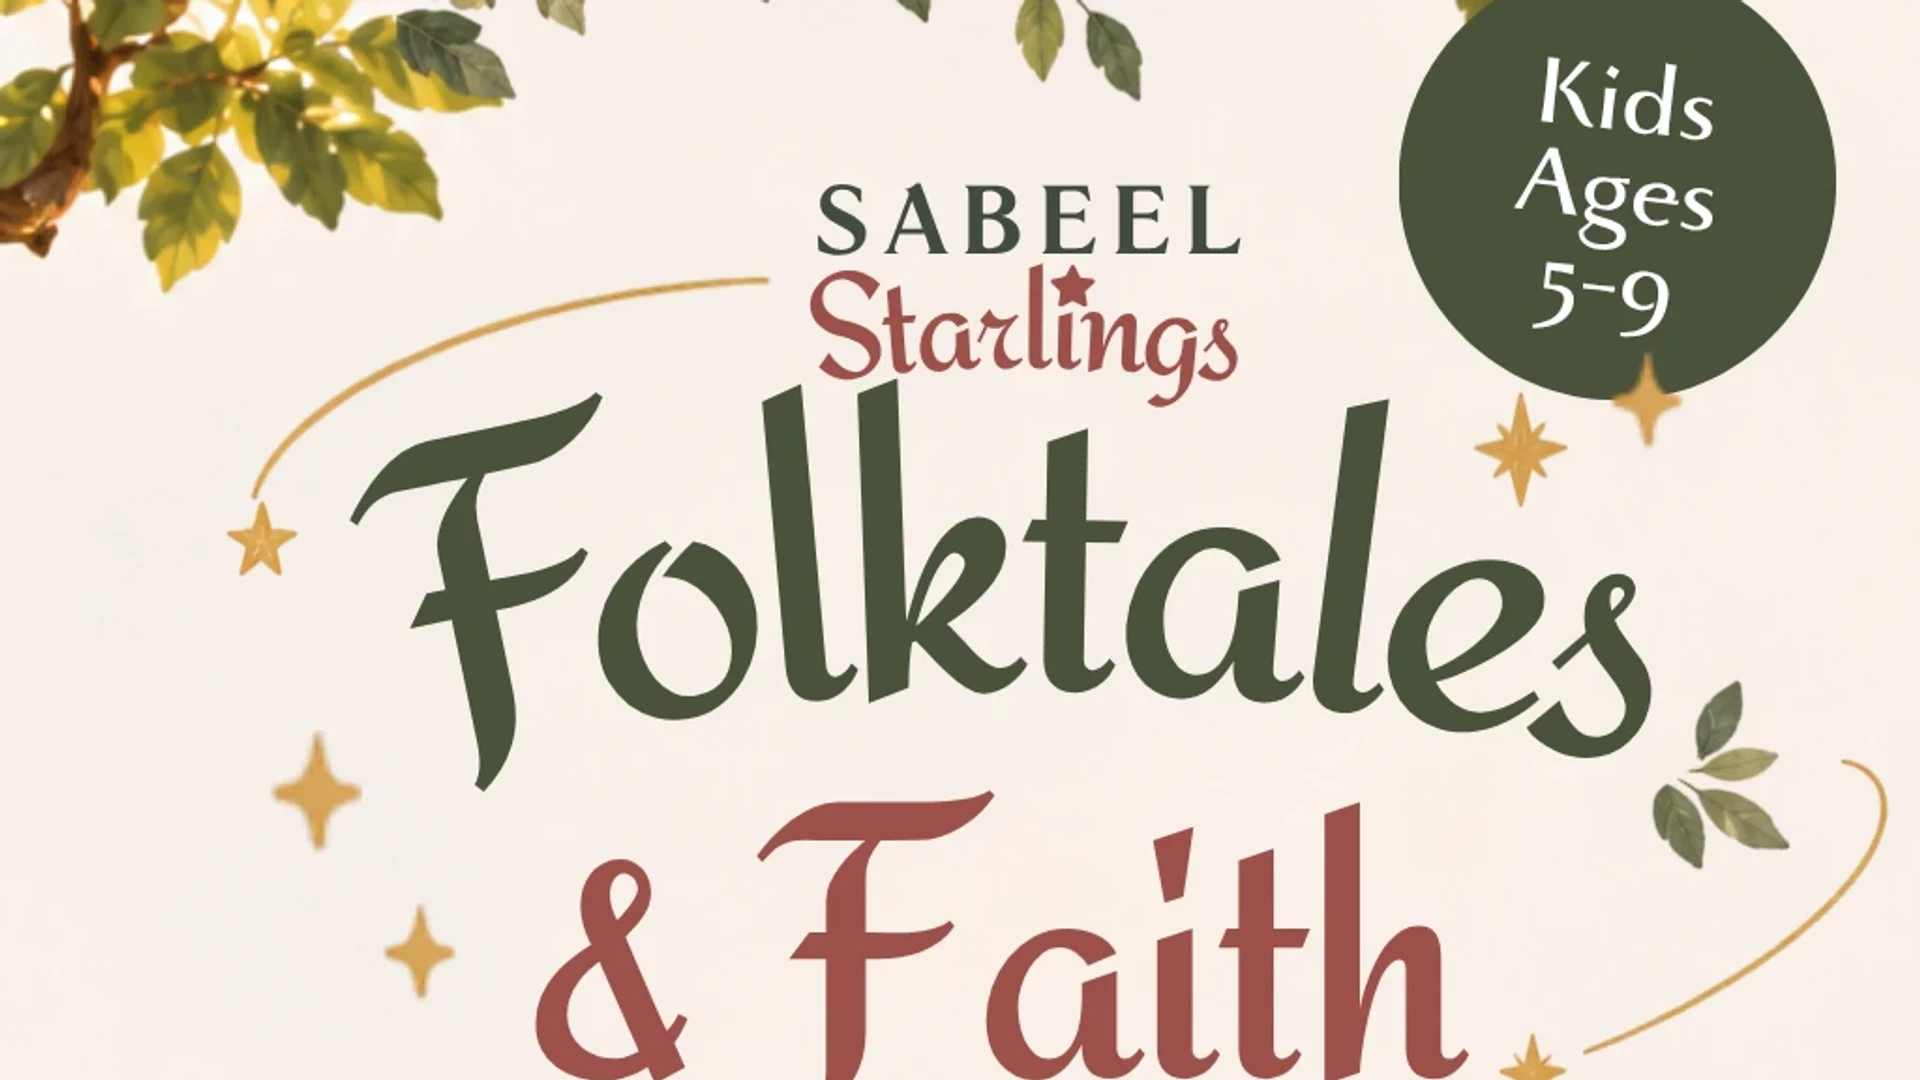
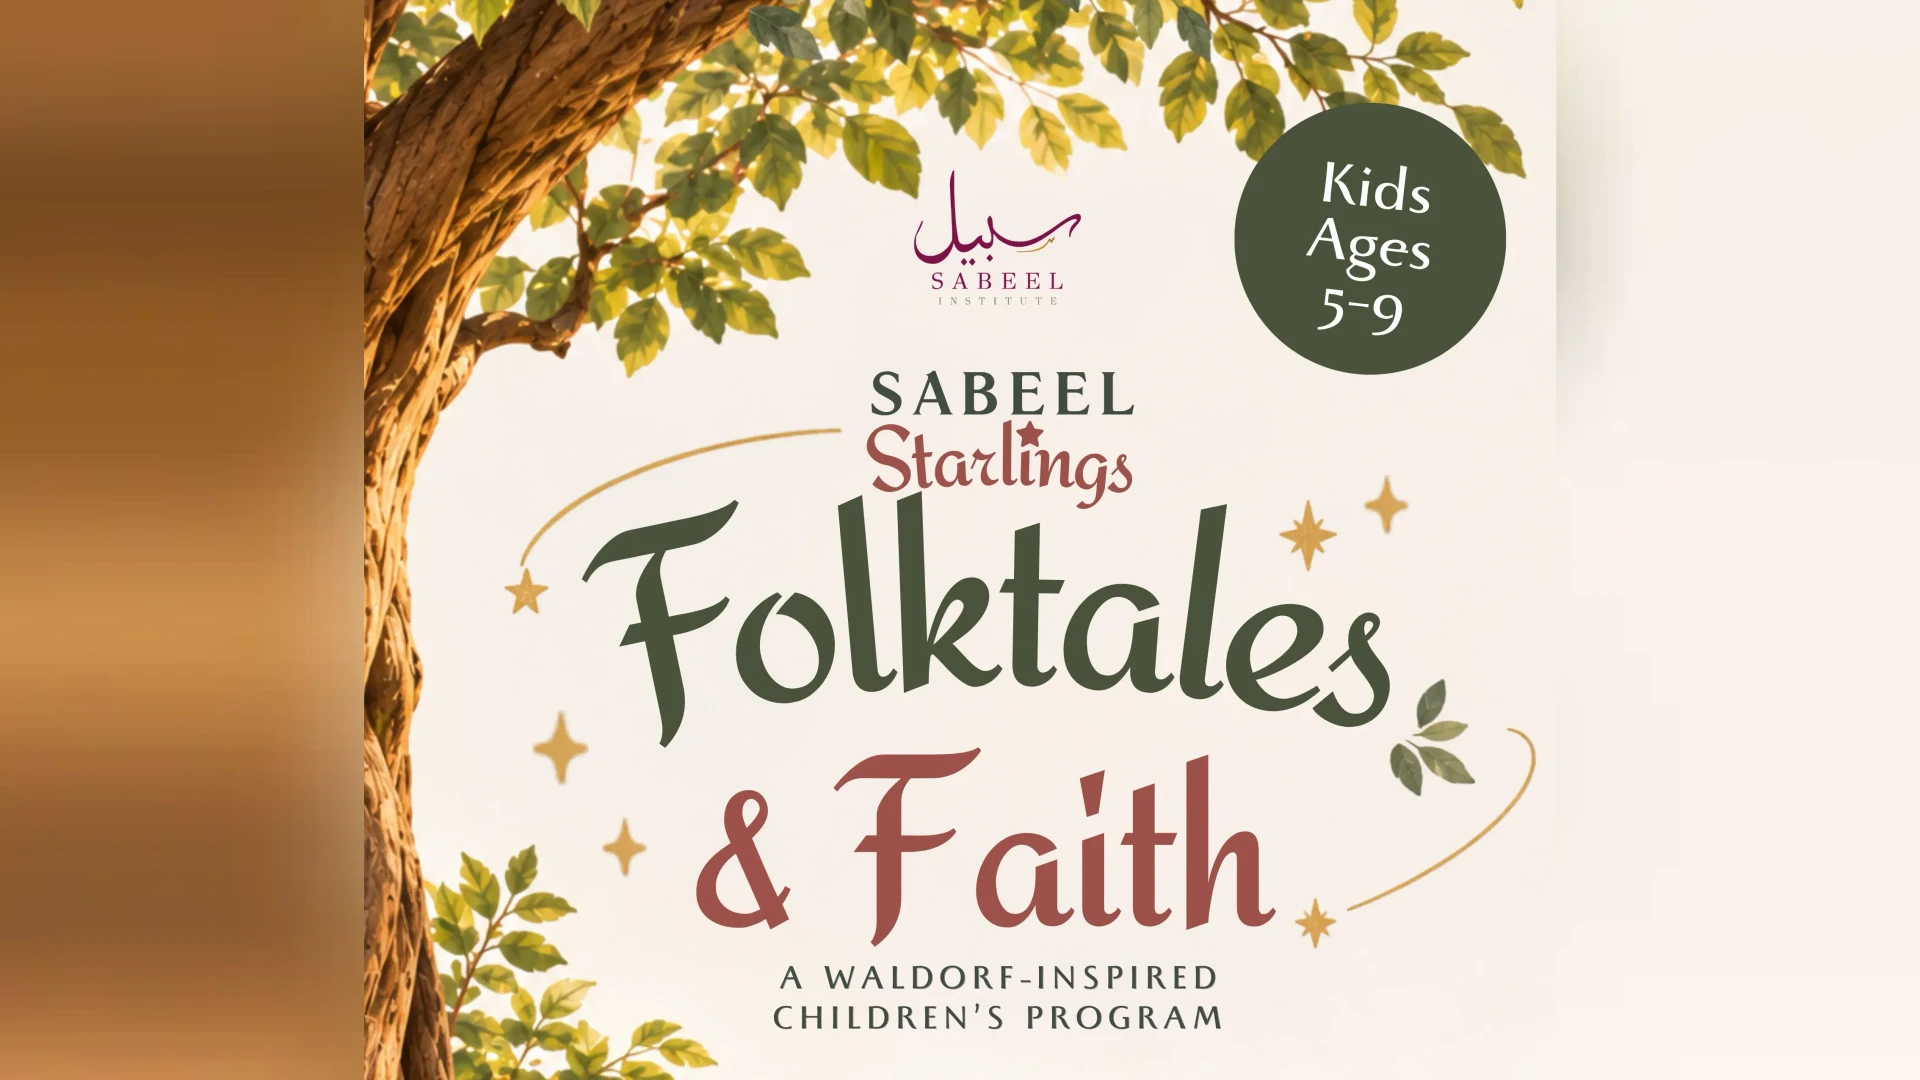
Bring four programs in line with the content conventions (#118)
* fix(programs): follow the content conventions

Folktales and Faith and Race to Jannah meet on regular days, so each
is one schedule part with a repeat rule naming its weekday, and
Folktales drops the card lines that repeated it. The three new program
images take the flyers' whole title areas instead of their top slices,
which cut through lettering.

Text follows the writing conventions: no emoji, sentence-case
headings at the body's two levels, curly quotes, the opening mark for
'alayhis, a one-sentence summary, and audiences worded like the others.
Anchored Hearts' What to expect card repeated its body, and its heading
now carries the month's title from the flyer.

* fix(programs): show that Surviving the Well is free

---------

diff --git a/src/content/programs/folktales-and-faith/index.md b/src/content/programs/folktales-and-faith/index.md
@@ -7,20 +7,8 @@ area: youth-children
 schedule:
   - start: 2026-11-21
     time: 3:30–5:30 PM
-  - start: 2026-12-05
-    time: 3:30–5:30 PM
-  - start: 2026-12-19
-    time: 3:30–5:30 PM
-  - start: 2027-01-02
-    time: 3:30–5:30 PM
-  - start: 2027-01-16
-    time: 3:30–5:30 PM
-  - start: 2027-01-30
-    time: 3:30–5:30 PM
-card:
-  - Nov 21 – Jan 30 · 6 sessions
-  - Bi-weekly Saturdays · 3:30–5:30 PM CT
-audience: Ages 5–9 years old
+    repeat: FREQ=WEEKLY;INTERVAL=2;BYDAY=SA;COUNT=6
+audience: Children 5–9
 format: On-site
 venue: masjid-istiqlal
 location: Sabeel Classroom at Masjid Istiqlal
@@ -30,54 +18,54 @@ fee:
 registration:
   zeffy: sabeel-starlings-folktales-and-faith
 image: ./image.webp
-imageAlt: "Sabeel Starlings: Folktales and Faith title artwork with starry night and children under a tree"
+imageAlt: "Title artwork: Sabeel Starlings, Folktales & Faith, for kids ages 5–9"
 flyer: ./flyer.webp
 ---
 
 A journey through folktales from around the world! Through diverse storytelling traditions, imaginative play, nature-inspired crafts, and hands-on activities, children will explore timeless lessons of kindness, honesty, courage, gratitude, and compassion.
 
-Rooted in Waldorf-inspired learning and enriched with Islamic teachings, each story becomes an opportunity to nurture creativity, cultivate beautiful character (*akhlaq*), and strengthen their connection with Allah (SWT). ✨
+Rooted in Waldorf-inspired learning and enriched with Islamic teachings, each story becomes an opportunity to nurture creativity, cultivate beautiful character (*akhlaq*), and strengthen their connection with Allah (SWT).
 
-### Weekly Themes & Activities
+## Weekly themes & activities
 
-#### Week 1 — Syria 🇸🇾
+### Week 1 — Syria
 - **Story:** The Woodcutter & the Lion
-- **Story Style:** Shadow Theater 🌙
-- **Activity:** Forest of Ihsan (felt mosaic art) 🌳
+- **Story Style:** Shadow Theater
+- **Activity:** Forest of Ihsan (felt mosaic art)
 - **Explore:** Kindness • Friendship • Gratitude
 - **Country Table:** Learn about Syria through immersive exploration
 
-#### Week 2 — Ethiopia 🇪🇹
+### Week 2 — Ethiopia
 - **Story:** The Dog Fight
-- **Story Style:** Story board Role-Play 🎭
-- **Activity:** Make own color + Watercolor River Art 🎨
+- **Story Style:** Story board Role-Play
+- **Activity:** Make own color + Watercolor River Art
 - **Explore:** Resolving Conflicts • Patience
 - **Country Table:** Learn about Ethiopia through immersive exploration
 
-#### Week 3 — Sudan 🇸🇩
+### Week 3 — Sudan
 - **Story:** Allah Karim
-- **Story Style:** Interactive Storytelling 📖
-- **Activity:** Fall soup 🥣
+- **Story Style:** Interactive Storytelling
+- **Activity:** Fall soup
 - **Explore:** Generosity • Forgiveness
 - **Country Table:** Learn about Sudan through immersive exploration
 
-#### Week 4 — Palestine 🇵🇸
+### Week 4 — Palestine
 - **Story:** True Kindness
 - **Story Style:** Oral Storytelling & Traditional Games (Al Sab’a Balata)
-- **Activity:** Patterned Bookmark Leather Craft ✂
+- **Activity:** Patterned Bookmark Leather Craft
 - **Explore:** Kindness • Giving
 - **Country Table:** Learn about Palestine through immersive exploration
 
-#### Week 5 — Yemen 🇾🇪
+### Week 5 — Yemen
 - **Story:** The Next Sultan
-- **Story Style:** Dramatic Storytelling & Imaginative Play 🎭
-- **Activity:** Yemeni chai making 🍵 and traditional Yemeni game (Min Kobet Al-Tayyar)
+- **Story Style:** Dramatic Storytelling & Imaginative Play
+- **Activity:** Yemeni chai making and traditional Yemeni game (Min Kobet Al-Tayyar)
 - **Explore:** Responsibility • Leadership
 - **Country Table:** Learn about Yemen through immersive exploration
 
-#### Week 6 — Afghanistan 🇦🇫
+### Week 6 — Afghanistan
 - **Story:** The Emir & the Angel
-- **Story Style:** Puppet Theater 🧸
-- **Activity:** Weaving and Justice sock Puppets 🧵
+- **Story Style:** Puppet Theater
+- **Activity:** Weaving and Justice sock Puppets
 - **Explore:** Justice • Accountability
 - **Country Table:** Learn about Afghanistan through immersive exploration

diff --git a/src/content/programs/surviving-the-well-2026/index.md b/src/content/programs/surviving-the-well-2026/index.md
@@ -2,10 +2,10 @@
 status: open
 flyer: ./flyer.webp
 image: ./image.webp
-imageAlt: "Surviving the Well: A Surah Yusuf Series for Women"
+imageAlt: "Title artwork: Surviving the Well, A Surah Yusuf Series for Women"
 title: "Surviving the Well"
 subtitle: "A Surah Yusuf Series for Women"
-summary: A 4-part journey through Surah Yusuf for women, drawing actionable spiritual tools from "The Best of Stories" to heal, remain steadfast, and cultivate beautiful patience.
+summary: A 4-part journey through Surah Yusuf for women, drawing actionable spiritual tools from “The Best of Stories” to heal, remain steadfast, and cultivate beautiful patience.
 area: womens-learning
 schedule:
   - start: 2026-11-07
@@ -18,12 +18,14 @@ audience: Adult women
 format: Online & on-site
 venue: masjid-istiqlal
 location: Sabeel Classroom at Masjid Istiqlal or online via Zoom
+fee: Free
+financialAid: false
 registration:
   zeffy: surviving-the-well-a-surah-yusuf-series-for-women
 instructors:
   - mariam-sattar
 ---
 
-Life often places us in unexpected "wells" — moments of isolation, betrayal, hardship, and deep emotional trial. Yet, in the story of Prophet Yusuf (’alayhis salam), Allah (Subhanahu wa Ta’ala) shows us how the deepest wells can become the starting point for spiritual elevation, resilience, and ultimate victory.
+Life often places us in unexpected “wells” — moments of isolation, betrayal, hardship, and deep emotional trial. Yet, in the story of Prophet Yusuf (‘alayhis salam), Allah (Subhanahu wa Ta’ala) shows us how the deepest wells can become the starting point for spiritual elevation, resilience, and ultimate victory.
 
 Surviving the Well is a 4-part journey through Surah Yusuf, designed specifically for women seeking to navigate life’s personal trials through the wisdom of the Qur’an. Together, we will examine the thematic depth of Ahsan al-Qasas (“The Best of Stories”), drawing actionable spiritual tools to heal, remain steadfast, and cultivate beautiful patience (*Sabrun Jameel*).

diff --git a/src/content/programs/anchored-hearts/index.md b/src/content/programs/anchored-hearts/index.md
@@ -18,7 +18,6 @@ registration:
   zeffy: anchored-hearts-sisters-circle-november
 instructors:
   - zona-bokhari
-expect: An uplifting halaqa on how seeking knowledge keeps us grounded in faith, strengthens our connection with Allah, and guides us toward Jannah, followed by games and sisterhood.
 image: ./image.webp
 imageAlt: "Title artwork: Anchored Hearts, Sister’s Circle"
 flyer: ./flyer.webp
@@ -26,9 +25,9 @@ flyer: ./flyer.webp
 
 Anchored Hearts is a monthly gathering for sisters to learn, reflect, and connect. Each gathering offers a welcoming space to nurture faith and build sisterhood.
 
-## This month: A Path to Jannah in Every Season of Life with Ust. Zona Bokhari
+## This month: Seek ‘Ilm. Seek Jannah.
 
-Join us for an uplifting halaqa on how seeking knowledge keeps us grounded in faith, strengthens our connection with Allah, and guides us toward Jannah. Halaqa will be followed by fun games and sisterhood. 🤍
+**A Path to Jannah in Every Season of Life, with Ust. Zona Bokhari, on Saturday, November 14.** Join us for an uplifting halaqa on how seeking knowledge keeps us grounded in faith, strengthens our connection with Allah, and guides us toward Jannah. Halaqa will be followed by fun games and sisterhood.
 
 ### Schedule
 

diff --git a/src/content/programs/race-to-jannah/index.md b/src/content/programs/race-to-jannah/index.md
@@ -2,17 +2,13 @@
 status: completed
 title: Race to Jannah
 subtitle: A BoxCar Adventure
-summary: Build your own wearable boxcar, race through fun challenges and discover how Niyyah, Sabr, Salah, Dhikr, Shukr and good Akhlaq help us on our journey to Jannah! A hands-on Islamic adventure filled with stories, games, crafts, and teamwork!
+summary: Build your own wearable boxcar, race through fun challenges and discover how Niyyah, Sabr, Salah, Dhikr, Shukr and good Akhlaq help us on our journey to Jannah!
 area: youth-children
 schedule:
   - start: 2026-11-01
     time: 2:30–4:30 PM
-  - start: 2026-11-08
-    time: 2:30–4:30 PM
-card:
-  - Nov 01 and Nov 08
-  - Sundays · 2:30–4:30 PM CT
-audience: Children 6–10 years old
+    repeat: FREQ=WEEKLY;BYDAY=SU;COUNT=2
+audience: Children 6–10
 format: On-site
 venue: masjid-istiqlal
 location: Sabeel Classroom at Masjid Istiqlal
